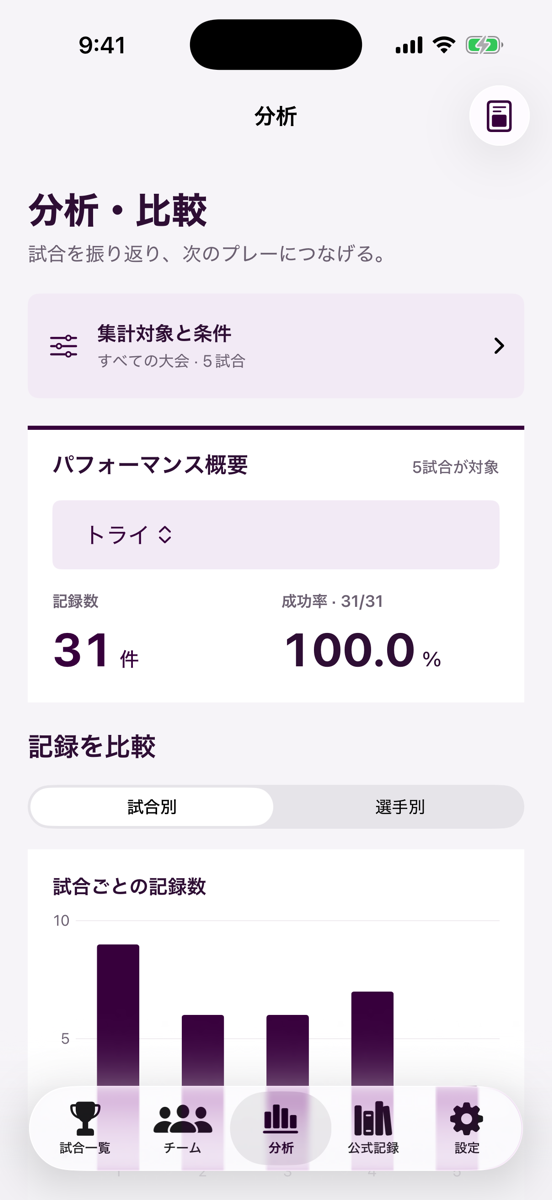
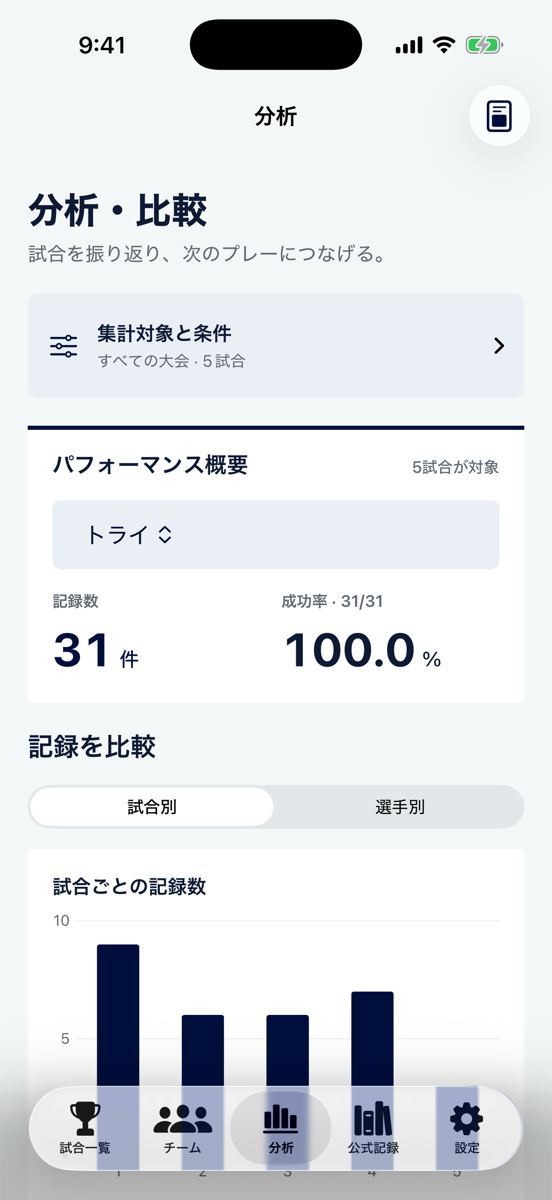
標準の配色をネイビーにし、記録は従来の記録画面で開く。スクリーンショットを撮り直し

diff --git a/MatchSummaryView.swift b/MatchSummaryView.swift
@@ -25,8 +25,6 @@ struct MatchSummaryView: View {
 
     @State private var scoringEventForPlayerSelection: StatEvent?
     @State private var timeEditingEvent: StatEvent?
-    @State private var isRecordingChoicePresented = false
-    @State private var isWidgetRecordingPresented = false
     @State private var isLegacyRecordingPresented = false
     @State private var isTimelineEditorPresented = false
     @State private var isPlayListEditorPresented = false
@@ -187,7 +185,7 @@ struct MatchSummaryView: View {
     // MARK: - Body
 
     private var isSummaryCovered: Bool {
-        isWidgetRecordingPresented || isLegacyRecordingPresented || isTimelineEditorPresented || isPlayListEditorPresented
+        isLegacyRecordingPresented || isTimelineEditorPresented || isPlayListEditorPresented
     }
 
     var body: some View {
@@ -266,26 +264,10 @@ struct MatchSummaryView: View {
         .onChange(of: selectedScope) { _, _ in
             selectedProgressionEventID = nil
         }
-        .fullScreenCover(isPresented: $isWidgetRecordingPresented) {
-            WidgetRecordingView(
-                match: match,
-                context: modelContext,
-                initialSeconds: 0,
-                initialHalf: 0,
-                onClose: { _, _, _ in }
-            )
-            .preferredColorScheme(.dark)
-            .tint(.blue)
-        }
         .fullScreenCover(isPresented: $isLegacyRecordingPresented) {
             V3RecordingView(match: match)
                 .preferredColorScheme(.dark)
                 .tint(.blue)
-        }
-        .confirmationDialog("記録画面を選択", isPresented: $isRecordingChoicePresented, titleVisibility: .visible) {
-            Button("カスタム記録画面") { isWidgetRecordingPresented = true }
-            Button("従来の記録画面") { isLegacyRecordingPresented = true }
-            Button("キャンセル", role: .cancel) { }
         }
         .fullScreenCover(isPresented: $isTimelineEditorPresented) {
             TimelineEditorView(match: match)
@@ -352,7 +334,7 @@ struct MatchSummaryView: View {
                 .frame(maxWidth: .infinity, alignment: .leading)
                 .accessibilityAddTraits(.isHeader)
 
-            Button { isRecordingChoicePresented = true } label: {
+            Button { isLegacyRecordingPresented = true } label: {
                 Text("記録へ")
                     .font(.subheadline.weight(.semibold))
                     .foregroundStyle(RugbyTheme.onAccent)

diff --git a/LineupRegistrationView.swift b/LineupRegistrationView.swift
@@ -25,8 +25,6 @@ struct LineupRegistrationView: View {
     @State private var selectedTeamID: UUID?
     @State private var addingContext: AddingContext?
     @State private var pendingRemoval: MatchLineup?
-    @State private var showsRecordingChoice = false
-    @State private var showsWidgetRecording = false
     @State private var showsLegacyRecording = false
     // 背番号を編集中のメンバー表エントリ
     @State private var numberEditingEntry: MatchLineup?
@@ -157,26 +155,10 @@ struct LineupRegistrationView: View {
         // 同じ NavigationStack に navigationDestination(item:) と
         // navigationDestination(isPresented:) を入れ子で重ねると、後者が
         // 無視されることがある SwiftUI の挙動を避けるため、ここは fullScreenCover で出す。
-        .fullScreenCover(isPresented: $showsWidgetRecording) {
-            WidgetRecordingView(
-                match: match,
-                context: modelContext,
-                initialSeconds: 0,
-                initialHalf: 0,
-                onClose: { _, _, _ in }
-            )
-            .preferredColorScheme(.dark)
-            .tint(.blue)
-        }
         .fullScreenCover(isPresented: $showsLegacyRecording) {
             V3RecordingView(match: match)
                 .preferredColorScheme(.dark)
                 .tint(.blue)
-        }
-        .confirmationDialog("記録画面を選択", isPresented: $showsRecordingChoice, titleVisibility: .visible) {
-            Button("カスタム記録画面") { showsWidgetRecording = true }
-            Button("従来の記録画面") { showsLegacyRecording = true }
-            Button("キャンセル", role: .cancel) { }
         }
         .sheet(item: $addingContext) { context in
             playerPickerSheet(role: context.role)
@@ -310,10 +292,10 @@ struct LineupRegistrationView: View {
                 .multilineTextAlignment(.center)
                 .fixedSize(horizontal: false, vertical: true)
             Button {
-                showsRecordingChoice = true
+                showsLegacyRecording = true
             } label: {
                 HStack(spacing: 10) {
-                    Text("記録画面を選ぶ")
+                    Text("記録を始める")
                     Image(systemName: "arrow.right")
                 }
                 .frame(maxWidth: .infinity)

diff --git a/Rugby AS/SettingsView.swift b/Rugby AS/SettingsView.swift
@@ -22,7 +22,7 @@ struct SettingsView: View {
     // 書き出し完了後、進み具合の画面を閉じてから共有シートに渡すファイル
     @State private var pendingShareURL: URL?
     @AppStorage("backup.lastFileCreatedAt") private var lastFileCreatedAt = 0.0
-    @AppStorage(RugbyTheme.paletteKey) private var palette = RugbyPalette.purple.rawValue
+    @AppStorage(RugbyTheme.paletteKey) private var palette = RugbyPalette.navy.rawValue
 
     var body: some View {
         ScrollView {
@@ -159,9 +159,9 @@ struct SettingsView: View {
         }
     }
 
-    /// アプリ全体の配色。どの色も標準の紫と同じ濃さで、色合いだけが変わる。チームの色(試合・グラフ)は変わらない
+    /// アプリ全体の配色。どの色も同じ濃さで、色合いだけが変わる(紫を基準に色合いを回して作る)。チームの色(試合・グラフ)は変わらない
     private var paletteCard: some View {
-        let selected = RugbyPalette(rawValue: palette) ?? .purple
+        let selected = RugbyPalette(rawValue: palette) ?? .navy
         return VStack(alignment: .leading, spacing: 14) {
             LazyVGrid(columns: Array(repeating: GridItem(.flexible(), spacing: 8), count: 5), spacing: 14) {
                 ForEach(RugbyPalette.allCases) { option in
@@ -194,7 +194,7 @@ struct SettingsView: View {
                     .accessibilityAddTraits(isSelected ? .isSelected : [])
                 }
             }
-            Text("見出し・ボタン・背景の色が変わります。濃さは標準の紫と同じです。選択中の下線などのピンクと、チームの色（試合やグラフ）はそのままです。")
+            Text("見出し・ボタン・背景の色が変わります。濃さはどの色も同じです。選択中の下線などのピンクと、チームの色（試合やグラフ）はそのままです。")
                 .font(.footnote)
                 .foregroundStyle(RugbyTheme.textSecondary)
                 .fixedSize(horizontal: false, vertical: true)

diff --git a/Rugby AS/RugbyTheme.swift b/Rugby AS/RugbyTheme.swift
@@ -27,7 +27,7 @@ enum RugbyTheme {
     /// 今の配色。設定の値が変わったら作り直す(毎回計算しないよう、配色ごとに1回だけ作る)
     private static var cached: (RugbyPalette, Tokens)?
     private static var tokens: Tokens {
-        let palette = RugbyPalette(rawValue: UserDefaults.standard.string(forKey: paletteKey) ?? "") ?? .purple
+        let palette = RugbyPalette(rawValue: UserDefaults.standard.string(forKey: paletteKey) ?? "") ?? .navy
         if let cached, cached.0 == palette { return cached.1 }
         let made = Tokens(palette)
         cached = (palette, made)
@@ -104,9 +104,9 @@ enum RugbyPalette: String, CaseIterable, Identifiable {
 
     var name: String {
         switch self {
-        case .purple: return "パープル（標準）"
+        case .purple: return "パープル"
         case .indigo: return "インディゴ"
-        case .navy: return "ネイビー"
+        case .navy: return "ネイビー（標準）"
         case .blue: return "ブルー"
         case .teal: return "ティール"
         case .green: return "グリーン"

diff --git a/Rugby AS/Rugby_ASApp.swift b/Rugby AS/Rugby_ASApp.swift
@@ -35,9 +35,9 @@ private struct AppStartupView: View {
     @State private var attempt = 0
     // 配色を変えたら画面を作り直す(色は RugbyTheme から直接読むので、作り直さないと古い色が残る)。
     // 作り直した後は、配色を選んでいた設定タブを開いたままにする
-    @AppStorage(RugbyTheme.paletteKey) private var palette = RugbyPalette.purple.rawValue
+    @AppStorage(RugbyTheme.paletteKey) private var palette = RugbyPalette.navy.rawValue
     @State private var reopensSettings = false
-    @State private var launchPalette = UserDefaults.standard.string(forKey: RugbyTheme.paletteKey) ?? RugbyPalette.purple.rawValue
+    @State private var launchPalette = UserDefaults.standard.string(forKey: RugbyTheme.paletteKey) ?? RugbyPalette.navy.rawValue
     // 作り直すのと同じ回で判定しないと、最初のタブに戻ってしまう(onChange は作り直しの後に届くため)
     private var initialSection: String? { reopensSettings || palette != launchPalette ? "settings" : nil }
 

diff --git a/README.md b/README.md
@@ -2,9 +2,9 @@
 
 学生アナリストや部活動の指導者が、手軽に試合を記録・分析できる iPhone / iPad 向けのラグビー分析アプリです。
 
-| 試合一覧 | 試合サマリー | チーム成績 | 分析・比較 |
-| :---: | :---: | :---: | :---: |
-| <img src="docs/screenshots/match-list.png" width="200" alt="試合一覧"> | <img src="docs/screenshots/match-summary.png" width="200" alt="試合サマリー"> | <img src="docs/screenshots/team-performance.png" width="200" alt="チーム成績"> | <img src="docs/screenshots/analysis.png" width="200" alt="分析・比較"> |
+| 試合一覧 | 記録画面 | 試合サマリー | チーム成績 | 分析・比較 |
+| :---: | :---: | :---: | :---: | :---: |
+| <img src="docs/screenshots/match-list.png" width="160" alt="試合一覧"> | <img src="docs/screenshots/recording.png" width="160" alt="記録画面"> | <img src="docs/screenshots/match-summary.png" width="160" alt="試合サマリー"> | <img src="docs/screenshots/team-performance.png" width="160" alt="チーム成績"> | <img src="docs/screenshots/analysis.png" width="160" alt="分析・比較"> |
 
 ※ 画面のチーム名・選手名・試合はすべて架空のサンプルです。
 
@@ -20,7 +20,7 @@
 
 ## 主な機能
 
-- **試合の記録**：得点、プレー、メンバー表、交代を記録。記録画面のボタン配置や記録項目は自由に変更できます。
+- **試合の記録**：得点、プレー、メンバー表、交代を記録。保持時間（ポゼッション）の計測や、セットプレーの成否も記録できます。
 - **映像との連携**：試合映像（端末内の動画や YouTube）と記録を時刻で結びつけ、タイムラインで振り返り。記録項目ごとにハイライトを書き出せます。
 - **集計・分析**：試合・チーム・選手・指標を選んで、合計や成功率を比較。独自の比率指標の作成、試合ごとの推移の表示、CSV レポートの書き出しに対応しています。
 - **データの受け渡し**：バックアップファイル（JSON と動画）を AirDrop などで共有できます。

diff --git a/docs/CLAUDE.md b/docs/CLAUDE.md
@@ -73,8 +73,8 @@ StatEvent.player_id 任意 → 選手不明でも記録し後から紐づけ。
 ## 今ある機能（2026-09 時点）
 
 - 試合一覧・試合作成・チーム／選手名簿（カード表示・一括入力）・大会（順位表・ランキング）
-- 記録画面が2つ: カスタム記録画面（WidgetRecordingView・配置を自由に作れる。
-  トライ→コンバージョンの新しい流れはこちら）と従来の記録画面（V3RecordingView）
+- 記録画面は従来の記録画面（V3RecordingView）を使う。カスタム記録画面（WidgetRecordingView・
+  配置を自由に作れる）はコードに残しているが、2026-10-13 から画面からは開かない
 - 試合サマリー・プレー一覧の編集・得点経過グラフ・画像共有・CSV 書き出し
 - 動画: タイムライン編集・キックオフ合わせ・ハイライト書き出し・長い配信の試合ごと分割
 - 分析: 試合をまたいだ比較・条件の組み合わせ・保存できるレポート
